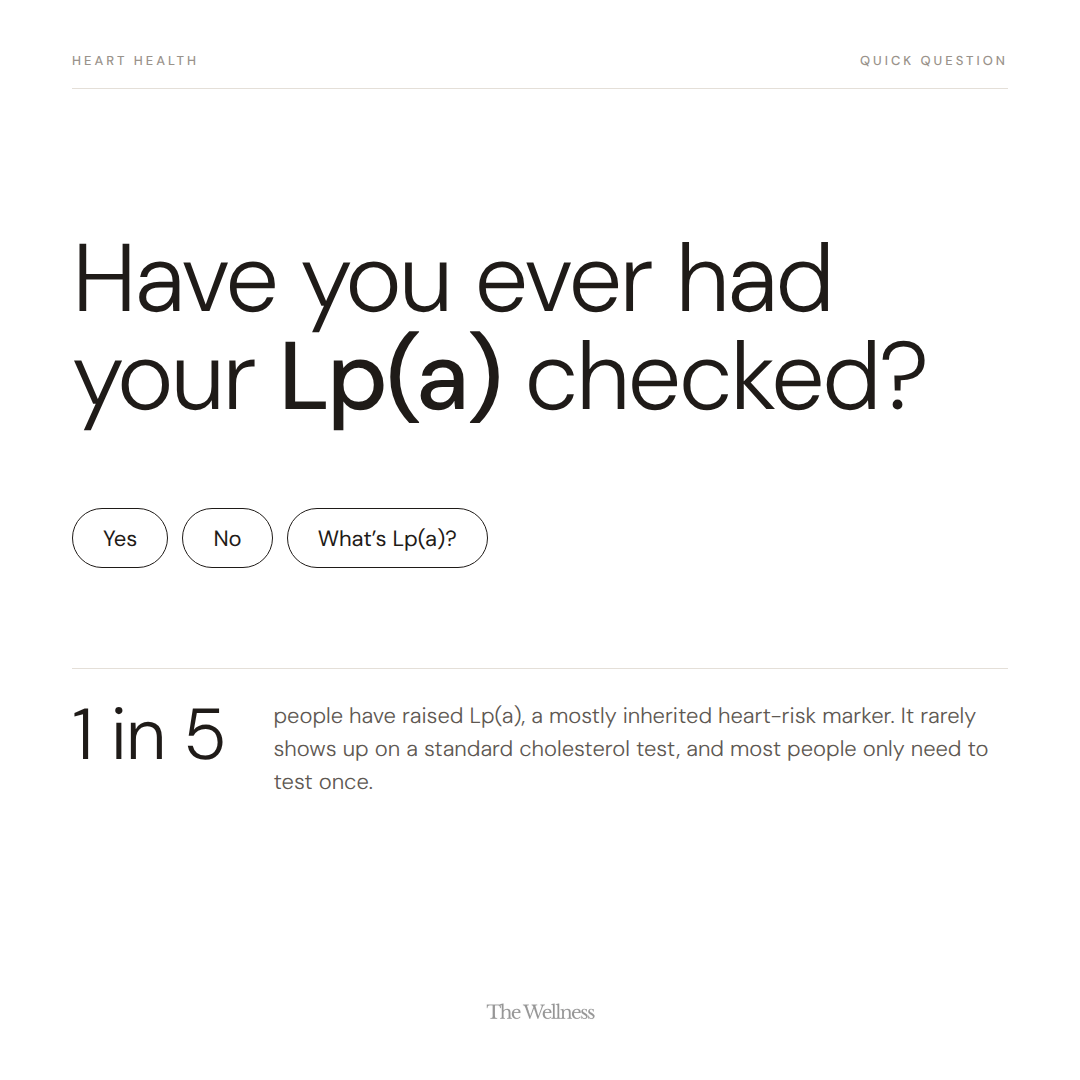
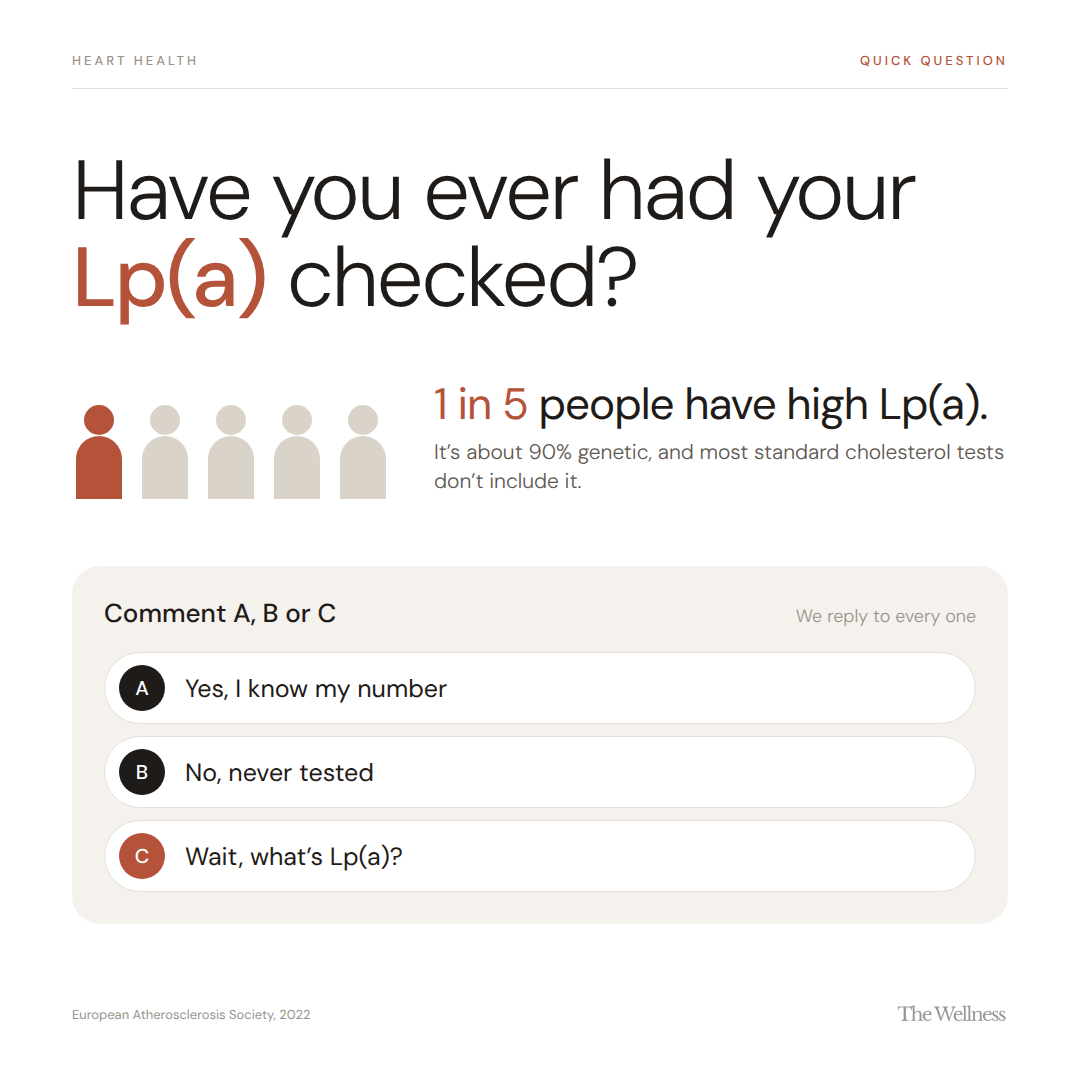
Redesign Lp(a) post for engagement: 1-in-5 pictogram and lettered replies
Claude-Session: https://claude.ai/code/session_01HibNmdeVVFZkkhm539poxe

diff --git a/renders/lpa/canva.html b/renders/lpa/canva.html
@@ -1,3 +1,3 @@
 <!doctype html><html><head><meta charset="utf-8"><title>Have you ever had your Lp(a) checked?</title>
 <link href="https://fonts.googleapis.com/css2?family=DM+Sans:wght@300;400;500&display=swap" rel="stylesheet">
-<style>html,body{margin:0;padding:0;background:#FFFFFF}</style></head><body><div data-document-role="page" data-label="Lp(a) question" style="position:relative;width:1080px;height:1080px;overflow:hidden"><link rel="preload" as="image" href="https://raw.githubusercontent.com/rgjalalon/rivergcj/claude/eager-wozniak-lex3fo/public/posts/aging2/wordmark.png"/><div style="position:absolute;top:0;left:0;right:0;bottom:0;display:flex;flex-direction:column;background:#FFFFFF;font-family:&quot;DM Sans&quot;, Inter, -apple-system, &quot;Helvetica Neue&quot;, Arial, sans-serif;color:#1F1B18"><div style="position:absolute;left:72px;right:72px;top:52px;display:flex;justify-content:space-between"><div style="font-family:&quot;DM Sans&quot;, Inter, -apple-system, &quot;Helvetica Neue&quot;, Arial, sans-serif;font-size:13px;font-weight:500;letter-spacing:3px;text-transform:uppercase;color:#9A938B">Heart health</div><div style="font-family:&quot;DM Sans&quot;, Inter, -apple-system, &quot;Helvetica Neue&quot;, Arial, sans-serif;font-size:13px;font-weight:500;letter-spacing:3px;text-transform:uppercase;color:#9A938B">Quick question</div></div><div style="position:absolute;left:72px;right:72px;top:88px;height:1px;background:#E4DFD8"></div><div style="position:absolute;left:72px;right:72px;top:230px;font-size:96px;font-weight:300;line-height:1.02;letter-spacing:-2.6px">Have you ever had<br/>your <span style="font-weight:500">Lp(a)</span> checked?</div><div style="position:absolute;left:72px;top:508px;display:flex;gap:14px"><div style="height:60px;padding:0 30px;border-radius:30px;border:1.5px solid #1F1B18;display:flex;align-items:center;font-size:22px;font-weight:400">Yes</div><div style="height:60px;padding:0 30px;border-radius:30px;border:1.5px solid #1F1B18;display:flex;align-items:center;font-size:22px;font-weight:400">No</div><div style="height:60px;padding:0 30px;border-radius:30px;border:1.5px solid #1F1B18;display:flex;align-items:center;font-size:22px;font-weight:400">What’s Lp(a)?</div></div><div style="position:absolute;left:72px;right:72px;top:668px;border-top:1px solid #E4DFD8;padding-top:30px;display:flex;gap:48px"><div style="font-size:72px;font-weight:300;line-height:1;letter-spacing:-1.5px;white-space:nowrap">1 in 5</div><div style="font-size:22px;font-weight:300;line-height:1.5;color:#5E5852">people have raised Lp(a), a mostly inherited heart-risk marker. It rarely shows up on a standard cholesterol test, and most people only need to test once.</div></div><div style="position:absolute;left:0;right:0;bottom:56px;display:flex;justify-content:center"><img src="https://raw.githubusercontent.com/rgjalalon/rivergcj/claude/eager-wozniak-lex3fo/public/posts/aging2/wordmark.png" style="height:24px;display:block"/></div></div></div></body></html>
+<style>html,body{margin:0;padding:0;background:#FFFFFF}</style></head><body><div data-document-role="page" data-label="Lp(a) question" style="position:relative;width:1080px;height:1080px;overflow:hidden"><link rel="preload" as="image" href="https://raw.githubusercontent.com/rgjalalon/rivergcj/claude/eager-wozniak-lex3fo/public/posts/aging2/wordmark.png"/><div style="position:absolute;top:0;left:0;right:0;bottom:0;display:flex;flex-direction:column;background:#FFFFFF;font-family:&quot;DM Sans&quot;, Inter, -apple-system, &quot;Helvetica Neue&quot;, Arial, sans-serif;color:#1F1B18"><div style="position:absolute;left:72px;right:72px;top:52px;display:flex;justify-content:space-between"><div style="font-family:&quot;DM Sans&quot;, Inter, -apple-system, &quot;Helvetica Neue&quot;, Arial, sans-serif;font-size:13px;font-weight:500;letter-spacing:3px;text-transform:uppercase;color:#9A938B">Heart health</div><div style="font-family:&quot;DM Sans&quot;, Inter, -apple-system, &quot;Helvetica Neue&quot;, Arial, sans-serif;font-size:13px;font-weight:500;letter-spacing:3px;text-transform:uppercase;color:#B4533A">Quick question</div></div><div style="position:absolute;left:72px;right:72px;top:88px;height:1px;background:#E4DFD8"></div><div style="position:absolute;left:72px;right:72px;top:148px;font-size:84px;font-weight:300;line-height:1.03;letter-spacing:-2.4px">Have you ever had your <span style="font-weight:500;color:#B4533A">Lp(a)</span> checked?</div><div style="position:absolute;left:72px;right:72px;top:382px;display:flex;align-items:flex-end;gap:44px"><div style="display:flex;gap:12px"><svg width="54" height="96" viewBox="0 0 54 96"><circle cx="27" cy="17" r="15" fill="#B4533A"></circle><path d="M4 96V56a23 23 0 0146 0v40z" fill="#B4533A"></path></svg><svg width="54" height="96" viewBox="0 0 54 96"><circle cx="27" cy="17" r="15" fill="#DAD3CA"></circle><path d="M4 96V56a23 23 0 0146 0v40z" fill="#DAD3CA"></path></svg><svg width="54" height="96" viewBox="0 0 54 96"><circle cx="27" cy="17" r="15" fill="#DAD3CA"></circle><path d="M4 96V56a23 23 0 0146 0v40z" fill="#DAD3CA"></path></svg><svg width="54" height="96" viewBox="0 0 54 96"><circle cx="27" cy="17" r="15" fill="#DAD3CA"></circle><path d="M4 96V56a23 23 0 0146 0v40z" fill="#DAD3CA"></path></svg><svg width="54" height="96" viewBox="0 0 54 96"><circle cx="27" cy="17" r="15" fill="#DAD3CA"></circle><path d="M4 96V56a23 23 0 0146 0v40z" fill="#DAD3CA"></path></svg></div><div style="padding-bottom:2px"><div style="font-size:44px;font-weight:400;line-height:1;letter-spacing:-1px"><span style="color:#B4533A">1 in 5</span> people have high Lp(a).</div><div style="margin-top:12px;font-size:21px;font-weight:300;line-height:1.4;color:#5E5852">It’s about 90% genetic, and most standard cholesterol tests don’t include it.</div></div></div><div style="position:absolute;left:72px;right:72px;top:566px;background:#F5F2EE;border-radius:28px;padding:30px 32px 32px"><div style="display:flex;justify-content:space-between;align-items:baseline"><div style="font-size:26px;font-weight:500">Comment A, B or C</div><div style="font-size:18px;font-weight:300;color:#9A938B">We reply to every one</div></div><div style="margin-top:22px;display:flex;flex-direction:column;gap:12px"><div style="height:72px;border-radius:36px;background:#FFFFFF;border:1px solid #E4DFD8;display:flex;align-items:center;gap:20px;padding:0 14px"><div style="width:46px;height:46px;border-radius:23px;background:#1F1B18;color:#FFFFFF;display:flex;align-items:center;justify-content:center;font-size:20px;font-weight:500">A</div><div style="font-size:25px;font-weight:400">Yes, I know my number</div></div><div style="height:72px;border-radius:36px;background:#FFFFFF;border:1px solid #E4DFD8;display:flex;align-items:center;gap:20px;padding:0 14px"><div style="width:46px;height:46px;border-radius:23px;background:#1F1B18;color:#FFFFFF;display:flex;align-items:center;justify-content:center;font-size:20px;font-weight:500">B</div><div style="font-size:25px;font-weight:400">No, never tested</div></div><div style="height:72px;border-radius:36px;background:#FFFFFF;border:1px solid #E4DFD8;display:flex;align-items:center;gap:20px;padding:0 14px"><div style="width:46px;height:46px;border-radius:23px;background:#B4533A;color:#FFFFFF;display:flex;align-items:center;justify-content:center;font-size:20px;font-weight:500">C</div><div style="font-size:25px;font-weight:400">Wait, what’s Lp(a)?</div></div></div></div><div style="position:absolute;left:72px;right:72px;bottom:54px;display:flex;justify-content:space-between;align-items:center"><div style="font-size:13px;color:#9A938B">European Atherosclerosis Society, 2022</div><img src="https://raw.githubusercontent.com/rgjalalon/rivergcj/claude/eager-wozniak-lex3fo/public/posts/aging2/wordmark.png" style="height:24px;display:block"/></div></div></div></body></html>

diff --git a/src/posts/LpaPost.tsx b/src/posts/LpaPost.tsx
@@ -2,8 +2,8 @@ import '../loadFonts';
 import {AbsoluteFill, Img, staticFile} from 'remotion';
 
 // Square Instagram/Threads post (1080×1080): "Have you ever had your Lp(a) checked?"
-// Same system as the ageing-well carousel: white page, running head and rule,
-// light DM Sans headline, wordmark footer. Reply pills invite answers on Threads.
+// Built for replies: the stat is shown as five figures with one highlighted, and the
+// answers are lettered so commenting is one character ("A", "B" or "C").
 export const LPA_W = 1080;
 export const LPA_H = 1080;
 
@@ -13,6 +13,9 @@ const c = {
   body: '#5E5852',
   muted: '#9A938B',
   rule: '#E4DFD8',
+  panel: '#F5F2EE',
+  accent: '#B4533A',
+  figure: '#DAD3CA',
 };
 
 const sans = '"DM Sans", Inter, -apple-system, "Helvetica Neue", Arial, sans-serif';
@@ -27,13 +30,24 @@ const caps: React.CSSProperties = {
   color: c.muted,
 };
 
-const replies = ['Yes', 'No', 'What’s Lp(a)?'];
+const Person: React.FC<{color: string}> = ({color}) => (
+  <svg width={54} height={96} viewBox="0 0 54 96">
+    <circle cx={27} cy={17} r={15} fill={color} />
+    <path d="M4 96V56a23 23 0 0146 0v40z" fill={color} />
+  </svg>
+);
+
+const answers = [
+  {k: 'A', label: 'Yes, I know my number'},
+  {k: 'B', label: 'No, never tested'},
+  {k: 'C', label: 'Wait, what’s Lp(a)?'},
+];
 
 export const LpaPost: React.FC = () => (
   <AbsoluteFill style={{background: c.page, fontFamily: sans, color: c.ink}}>
     <div style={{position: 'absolute', left: M, right: M, top: 52, display: 'flex', justifyContent: 'space-between'}}>
       <div style={caps}>Heart health</div>
-      <div style={caps}>Quick question</div>
+      <div style={{...caps, color: c.accent}}>Quick question</div>
     </div>
     <div style={{position: 'absolute', left: M, right: M, top: 88, height: 1, background: c.rule}} />
 
@@ -42,36 +56,84 @@ export const LpaPost: React.FC = () => (
         position: 'absolute',
         left: M,
         right: M,
-        top: 230,
-        fontSize: 96,
+        top: 148,
+        fontSize: 84,
         fontWeight: 300,
-        lineHeight: 1.02,
-        letterSpacing: -2.6,
+        lineHeight: 1.03,
+        letterSpacing: -2.4,
       }}
     >
-      Have you ever had
-      <br />
-      your <span style={{fontWeight: 500}}>Lp(a)</span> checked?
+      Have you ever had your <span style={{fontWeight: 500, color: c.accent}}>Lp(a)</span> checked?
     </div>
 
-    <div style={{position: 'absolute', left: M, top: 508, display: 'flex', gap: 14}}>
-      {replies.map((r) => (
-        <div
-          key={r}
-          style={{
-            height: 60,
-            padding: '0 30px',
-            borderRadius: 30,
-            border: `1.5px solid ${c.ink}`,
-            display: 'flex',
-            alignItems: 'center',
-            fontSize: 22,
-            fontWeight: 400,
-          }}
-        >
-          {r}
+    {/* 1 in 5, shown rather than told */}
+    <div style={{position: 'absolute', left: M, right: M, top: 382, display: 'flex', alignItems: 'flex-end', gap: 44}}>
+      <div style={{display: 'flex', gap: 12}}>
+        {[0, 1, 2, 3, 4].map((i) => (
+          <Person key={i} color={i === 0 ? c.accent : c.figure} />
+        ))}
+      </div>
+      <div style={{paddingBottom: 2}}>
+        <div style={{fontSize: 44, fontWeight: 400, lineHeight: 1, letterSpacing: -1}}>
+          <span style={{color: c.accent}}>1 in 5</span> people have high Lp(a).
         </div>
-      ))}
+        <div style={{marginTop: 12, fontSize: 21, fontWeight: 300, lineHeight: 1.4, color: c.body}}>
+          It’s about 90% genetic, and most standard cholesterol tests don’t include it.
+        </div>
+      </div>
+    </div>
+
+    {/* Reply card */}
+    <div
+      style={{
+        position: 'absolute',
+        left: M,
+        right: M,
+        top: 566,
+        background: c.panel,
+        borderRadius: 28,
+        padding: '30px 32px 32px',
+      }}
+    >
+      <div style={{display: 'flex', justifyContent: 'space-between', alignItems: 'baseline'}}>
+        <div style={{fontSize: 26, fontWeight: 500}}>Comment A, B or C</div>
+        <div style={{fontSize: 18, fontWeight: 300, color: c.muted}}>We reply to every one</div>
+      </div>
+      <div style={{marginTop: 22, display: 'flex', flexDirection: 'column', gap: 12}}>
+        {answers.map((a) => (
+          <div
+            key={a.k}
+            style={{
+              height: 72,
+              borderRadius: 36,
+              background: '#FFFFFF',
+              border: `1px solid ${c.rule}`,
+              display: 'flex',
+              alignItems: 'center',
+              gap: 20,
+              padding: '0 14px',
+            }}
+          >
+            <div
+              style={{
+                width: 46,
+                height: 46,
+                borderRadius: 23,
+                background: a.k === 'C' ? c.accent : c.ink,
+                color: '#FFFFFF',
+                display: 'flex',
+                alignItems: 'center',
+                justifyContent: 'center',
+                fontSize: 20,
+                fontWeight: 500,
+              }}
+            >
+              {a.k}
+            </div>
+            <div style={{fontSize: 25, fontWeight: 400}}>{a.label}</div>
+          </div>
+        ))}
+      </div>
     </div>
 
     <div
@@ -79,21 +141,13 @@ export const LpaPost: React.FC = () => (
         position: 'absolute',
         left: M,
         right: M,
-        top: 668,
-        borderTop: `1px solid ${c.rule}`,
-        paddingTop: 30,
+        bottom: 54,
         display: 'flex',
-        gap: 48,
+        justifyContent: 'space-between',
+        alignItems: 'center',
       }}
     >
-      <div style={{fontSize: 72, fontWeight: 300, lineHeight: 1, letterSpacing: -1.5, whiteSpace: 'nowrap'}}>1 in 5</div>
-      <div style={{fontSize: 22, fontWeight: 300, lineHeight: 1.5, color: c.body}}>
-        people have raised Lp(a), a mostly inherited heart-risk marker. It rarely shows up on a standard cholesterol
-        test, and most people only need to test once.
-      </div>
-    </div>
-
-    <div style={{position: 'absolute', left: 0, right: 0, bottom: 56, display: 'flex', justifyContent: 'center'}}>
+      <div style={{fontSize: 13, color: c.muted}}>European Atherosclerosis Society, 2022</div>
       <Img src={staticFile('posts/aging2/wordmark.png')} style={{height: 24, display: 'block'}} />
     </div>
   </AbsoluteFill>
